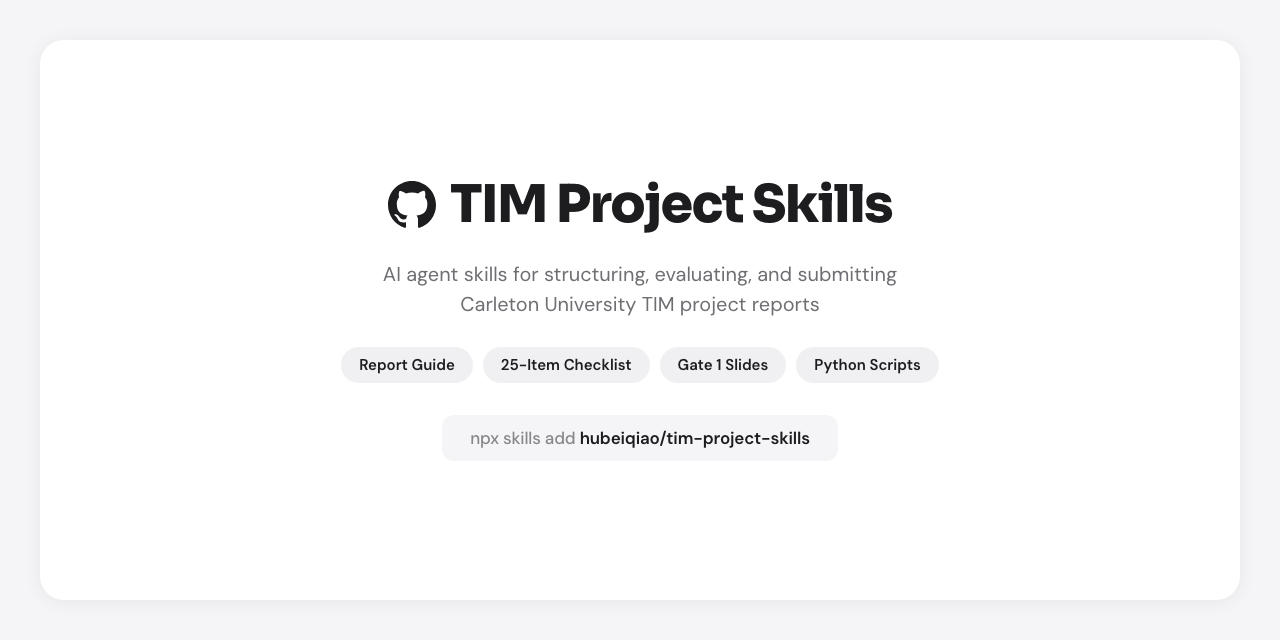
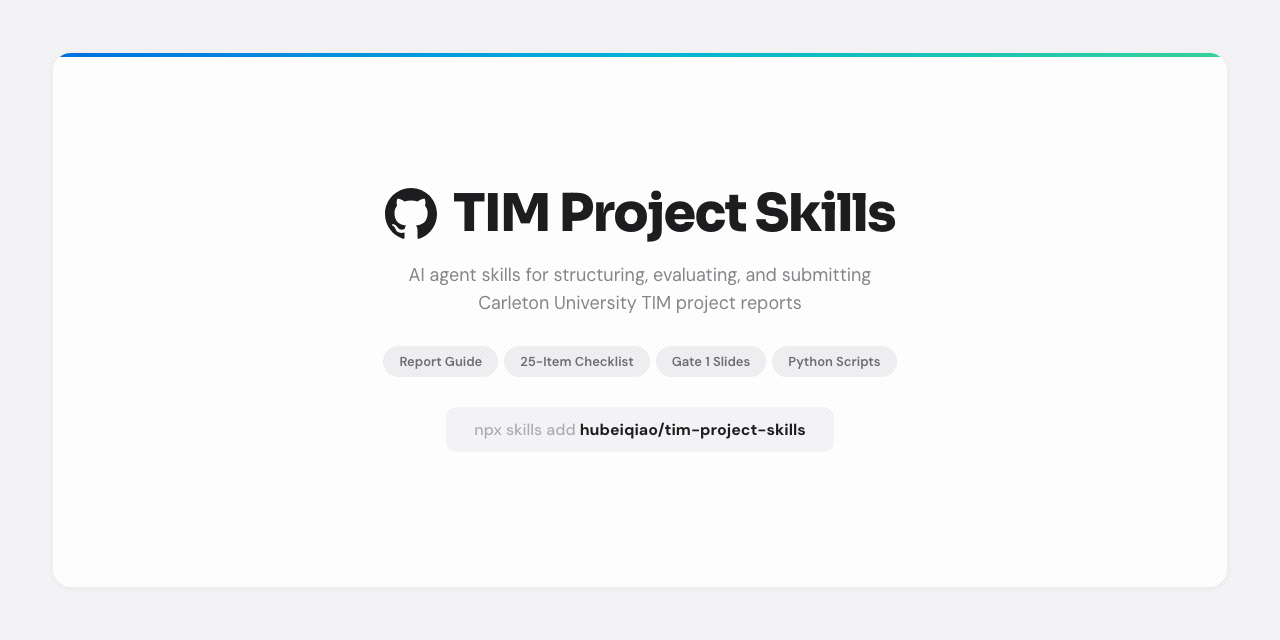
fix: polish OG image with apple-bento-grid design tokens
Apply proper design system: crosshatch texture, gradient accent bar,
Sora 800 / DM Sans typography, #f0f0f2 pills, 18px radius, box-shadow.
40pt safe border per GitHub template spec.

diff --git a/og-image.html b/og-image.html
@@ -6,50 +6,74 @@
 <title>TIM Project Skills — OG Image</title>
 <link rel="preconnect" href="https://fonts.googleapis.com">
 <link rel="preconnect" href="https://fonts.gstatic.com" crossorigin>
-<link href="https://fonts.googleapis.com/css2?family=DM+Sans:wght@400;500;600;700&family=Sora:wght@400;600;700;800&display=swap" rel="stylesheet">
+<link href="https://fonts.googleapis.com/css2?family=DM+Sans:ital,wght@0,400;0,500;0,600;0,700;1,400&family=Sora:wght@400;600;700;800&display=swap" rel="stylesheet">
 <style>
-  * { margin: 0; padding: 0; box-sizing: border-box; }
+  *, *::before, *::after { margin: 0; padding: 0; box-sizing: border-box; }
 
   body {
+    font-family: 'DM Sans', sans-serif;
     background: #f5f5f7;
-    font-family: 'DM Sans', system-ui, sans-serif;
-    -webkit-font-smoothing: antialiased;
     width: 1280px;
     height: 640px;
     overflow: hidden;
     display: flex;
-    align-items: center;
     justify-content: center;
+    align-items: center;
+    position: relative;
+    -webkit-font-smoothing: antialiased;
   }
 
+  /* Crosshatch texture from design system */
+  body::before {
+    content: '';
+    position: absolute;
+    inset: 0;
+    background: repeating-conic-gradient(rgba(0,0,0,0.015) 0% 25%, transparent 0% 50%) 0 0 / 4px 4px;
+    pointer-events: none;
+    z-index: 10;
+  }
+
+  /* Single card — 40pt (53px) safe border on all sides */
   .card {
-    width: 1200px;
-    height: 560px;
-    background: #ffffff;
-    border-radius: 24px;
-    box-shadow: 0 2px 20px rgba(0,0,0,0.06);
+    position: relative;
+    z-index: 1;
+    width: 1174px;
+    height: 534px;
+    background: #fff;
+    border-radius: 18px;
+    box-shadow: 0 1px 8px rgba(0,0,0,0.05);
     display: flex;
     flex-direction: column;
     align-items: center;
     justify-content: center;
     text-align: center;
-    padding: 60px 80px;
-    gap: 28px;
+    padding: 0 80px;
+    overflow: hidden;
   }
 
-  .top-row {
+  /* Hero gradient accent bar */
+  .card::before {
+    content: '';
+    position: absolute;
+    top: 0; left: 0; right: 0;
+    height: 4px;
+    background: linear-gradient(90deg, #0071e3, #00b4d8, #34d399);
+    border-radius: 18px 18px 0 0;
+  }
+
+  /* GitHub icon + title row */
+  .icon-row {
     display: flex;
     align-items: center;
-    gap: 14px;
+    gap: 16px;
+    margin-bottom: 22px;
   }
 
-  .github-icon {
-    width: 48px;
-    height: 48px;
-  }
+  .github-icon { width: 52px; height: 52px; }
 
+  /* Sora 800, -0.03em tracking — from design tokens */
   .title {
-    font-family: 'Sora', system-ui, sans-serif;
+    font-family: 'Sora', sans-serif;
     font-size: 52px;
     font-weight: 800;
     letter-spacing: -0.03em;
@@ -57,52 +81,57 @@
     line-height: 1;
   }
 
+  /* DM Sans body — secondary text color #86868b */
   .subtitle {
-    font-size: 20px;
-    color: #6e6e73;
-    line-height: 1.5;
-    max-width: 680px;
+    font-family: 'DM Sans', sans-serif;
+    font-size: 18px;
+    font-weight: 400;
+    color: #86868b;
+    line-height: 1.55;
+    margin-bottom: 28px;
   }
 
-  .features {
+  /* Pills from design system: DM Sans 600, #f0f0f2 bg, #6e6e73 text, radius 100px */
+  .pills-wrap {
     display: flex;
-    gap: 10px;
-    flex-wrap: wrap;
-    justify-content: center;
+    gap: 0;
+    margin-bottom: 30px;
   }
 
   .pill {
-    background: #f0f0f2;
-    color: #1d1d1f;
-    padding: 8px 18px;
-    border-radius: 20px;
-    font-size: 15px;
+    display: inline-block;
+    font-family: 'DM Sans', sans-serif;
+    font-size: 13px;
     font-weight: 600;
+    color: #6e6e73;
+    background: #f0f0f2;
+    border-radius: 100px;
+    padding: 7px 16px;
+    margin: 0 3px;
     white-space: nowrap;
   }
 
+  /* Install command — tertiary text #aeaeb2, primary bold #1d1d1f */
   .install {
-    margin-top: 4px;
     font-family: 'DM Sans', monospace;
-    font-size: 17px;
+    font-size: 16px;
     font-weight: 500;
-    color: #86868b;
+    color: #aeaeb2;
     background: #f5f5f7;
     padding: 12px 28px;
-    border-radius: 12px;
-    letter-spacing: -0.01em;
+    border-radius: 10px;
   }
 
   .install span {
     color: #1d1d1f;
-    font-weight: 600;
+    font-weight: 700;
   }
 </style>
 </head>
 <body>
 
 <div class="card">
-  <div class="top-row">
+  <div class="icon-row">
     <svg class="github-icon" viewBox="0 0 16 16" fill="none"><path d="M8 0C3.58 0 0 3.58 0 8c0 3.54 2.29 6.53 5.47 7.59.4.07.55-.17.55-.38 0-.19-.01-.82-.01-1.49-2.01.37-2.53-.49-2.69-.94-.09-.23-.48-.94-.82-1.13-.28-.15-.68-.52-.01-.53.63-.01 1.08.58 1.23.82.72 1.21 1.87.87 2.33.66.07-.52.28-.87.51-1.07-1.78-.2-3.64-.89-3.64-3.95 0-.87.31-1.59.82-2.15-.08-.2-.36-1.02.08-2.12 0 0 .67-.21 2.2.82.64-.18 1.32-.27 2-.27.68 0 1.36.09 2 .27 1.53-1.04 2.2-.82 2.2-.82.44 1.1.16 1.92.08 2.12.51.56.82 1.27.82 2.15 0 3.07-1.87 3.75-3.65 3.95.29.25.54.73.54 1.48 0 1.07-.01 1.93-.01 2.2 0 .21.15.46.55.38A8.01 8.01 0 0016 8c0-4.42-3.58-8-8-8z" fill="#1d1d1f"/></svg>
     <div class="title">TIM Project Skills</div>
   </div>
@@ -112,7 +141,7 @@
     Carleton University TIM project reports
   </div>
 
-  <div class="features">
+  <div class="pills-wrap">
     <span class="pill">Report Guide</span>
     <span class="pill">25-Item Checklist</span>
     <span class="pill">Gate 1 Slides</span>
